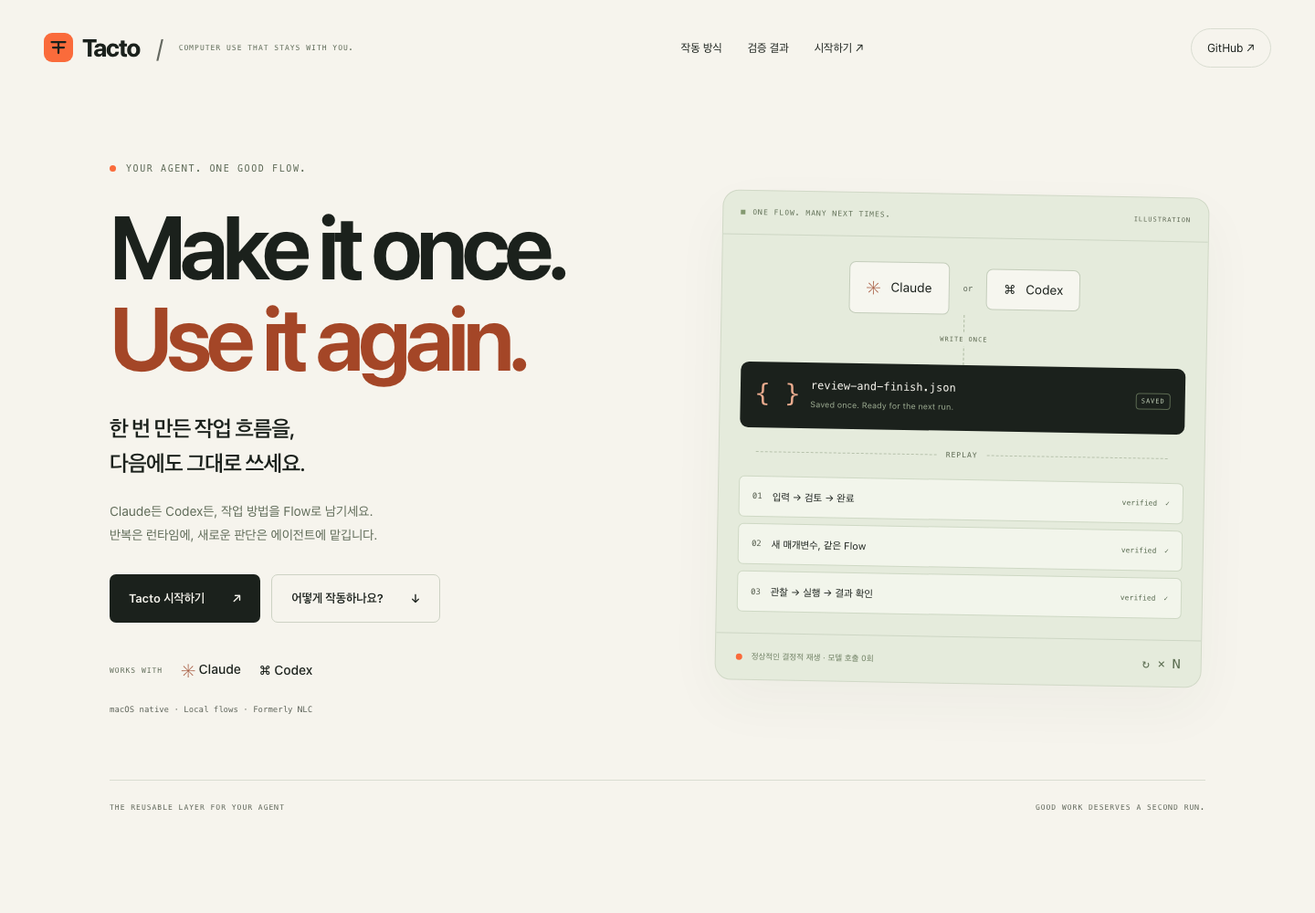
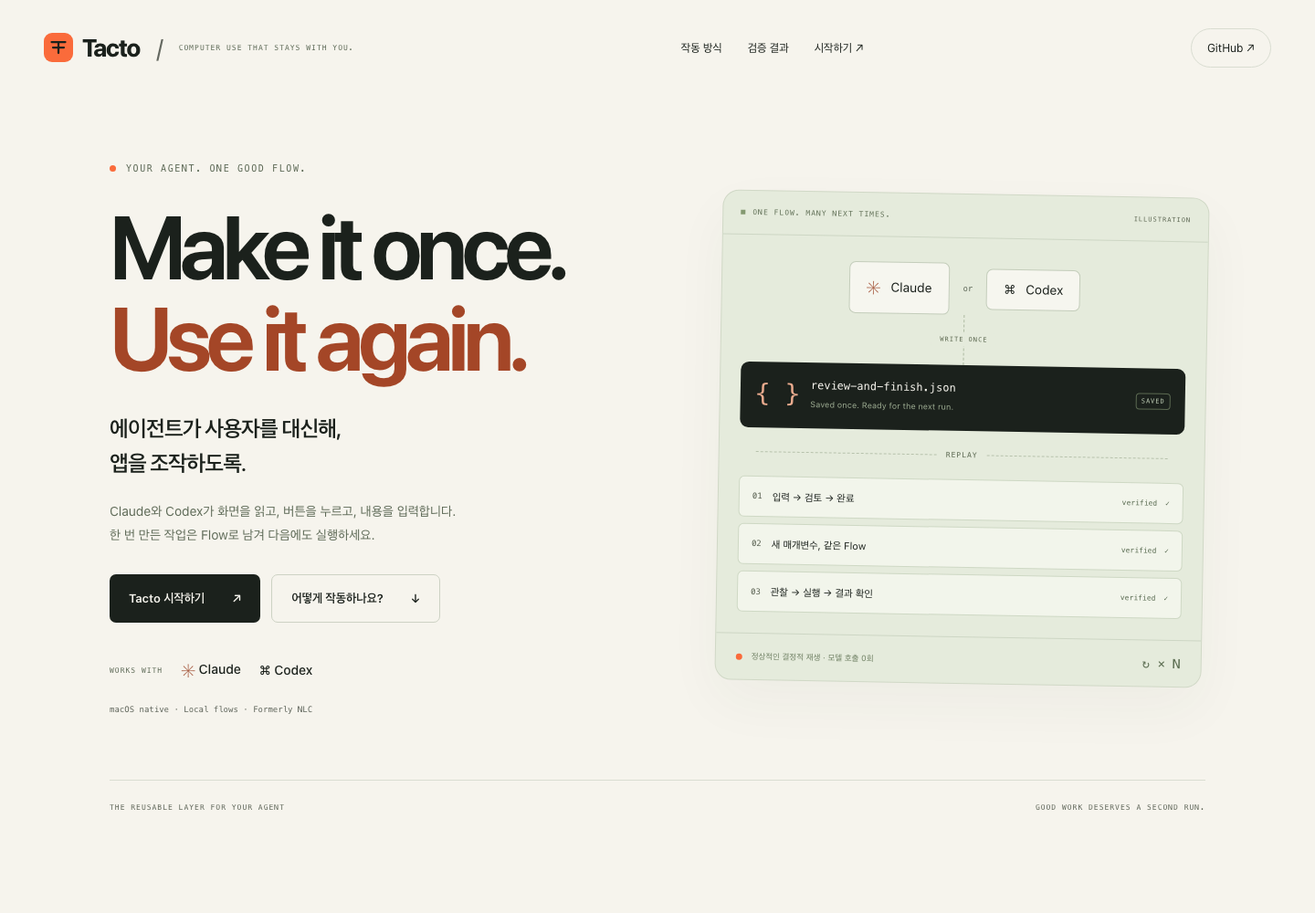
feat: clarify agent app control and add persistent LAN landing server

Changed region(s): [[0.0625, 0.434, 0.25, 0.527], [0.0938, 0.558, 0.3438, 0.589]]

diff --git a/sites/tacto/dist/index.html b/sites/tacto/dist/index.html
@@ -4,30 +4,30 @@
 <meta charset="utf-8"><meta name="viewport" content="width=device-width,initial-scale=1">
 <meta name="referrer" content="no-referrer">
 <meta http-equiv="Content-Security-Policy" content="default-src 'none'; script-src 'self'; style-src 'self'; img-src 'self'; font-src 'self'; connect-src 'none'; base-uri 'none'; form-action 'none'; object-src 'none'">
-<meta name="theme-color" content="#0b100e"><meta name="description" content="Claude와 Codex에서 한 번 작성하고 다시 쓰는 Computer Use. Tacto의 재사용 Flow로 모델 호출을 줄이고, 결과를 검증하세요.">
-<meta property="og:title" content="Tacto — Your agent’s execution layer."><meta property="og:description" content="Your agent. Your apps. One reusable flow."><meta property="og:image" content="assets/tacto-banner.svg">
+<meta name="theme-color" content="#f6f4ed"><meta name="description" content="Claude와 Codex가 사용자를 대신해 앱 화면을 읽고 버튼을 누르고 내용을 입력하도록. Tacto로 컴퓨터 조작(computer use)을 연결하고 작업 흐름을 재사용하세요.">
+<meta property="og:title" content="Tacto — Your agent’s execution layer."><meta property="og:description" content="Let your agent use your apps."><meta property="og:image" content="assets/tacto-banner.svg">
 <title>Tacto — Make it once. Use it again.</title>
 <link rel="icon" href="assets/favicon.svg" type="image/svg+xml"><link rel="stylesheet" href="style.css"><script defer src="app.js"></script>
 </head>
 <body>
 <a class="skip" href="#main">본문으로 건너뛰기</a>
-<header class="header"><a class="brand" href="#" aria-label="Tacto 홈"><svg viewBox="0 0 32 32" aria-hidden="true"><path d="M6 8h20M16 8v16M8 16h16"/></svg>Tacto<span class="brand-divider" aria-hidden="true">/</span><span class="brand-note">COMPUTER USE THAT STAYS WITH YOU.</span></a><nav aria-label="주요 메뉴"><a href="#how">작동 방식</a><a href="#evidence">검증 결과</a><a href="#start">시작하기 <span aria-hidden="true">↗</span></a></nav><a class="nav-github" href="https://github.com/Open330/nlc" target="_blank" rel="noopener noreferrer">GitHub <span aria-hidden="true">↗</span></a></header>
+<header class="header"><a class="brand" href="#" aria-label="Tacto 홈"><svg viewBox="0 0 32 32" aria-hidden="true"><path d="M6 8h20M16 8v16M8 16h16"/></svg>Tacto<span class="brand-divider" aria-hidden="true">/</span><span class="brand-note">COMPUTER USE THAT STAYS WITH YOU.</span></a><nav aria-label="주요 메뉴"><a href="#how">작동 방식</a><a href="#evidence">검증 결과</a><a href="#start">시작하기 <span aria-hidden="true">↗</span></a></nav><a class="nav-github" href="https://github.com/Open330/tacto" target="_blank" rel="noopener noreferrer">GitHub <span aria-hidden="true">↗</span></a></header>
 <main id="main">
 <section class="hero wrap">
-<div class="hero-copy"><div class="eyebrow"><span class="signal"></span> YOUR AGENT. ONE GOOD FLOW.</div><h1>Make it once.<br><span>Use it again.</span></h1><p class="hero-description">한 번 만든 작업 흐름을,<br>다음에도 그대로 쓰세요.</p><p class="hero-support">Claude든 Codex든, 작업 방법을 Flow로 남기세요.<br class="desktop-break"> 반복은 런타임에, 새로운 판단은 에이전트에 맡깁니다.</p><div class="hero-actions"><a class="button primary" href="#start">Tacto 시작하기 <span aria-hidden="true">↗</span></a><a class="button secondary" href="#demo">어떻게 작동하나요? <span aria-hidden="true">↓</span></a></div><div class="compatibility"><span>WORKS WITH</span><b><span class="claude-mark" aria-hidden="true">✳</span> Claude</b><b><span class="codex-mark" aria-hidden="true">⌘</span> Codex</b><span class="compatibility-note">macOS native · Local flows · Formerly NLC</span></div></div>
+<div class="hero-copy"><div class="eyebrow"><span class="signal"></span> YOUR AGENT. ONE GOOD FLOW.</div><h1>Make it once.<br><span>Use it again.</span></h1><p class="hero-description">에이전트가 사용자를 대신해,<br>앱을 조작하도록.</p><p class="hero-support">Claude와 Codex가 화면을 읽고, 버튼을 누르고, 내용을 입력합니다.<br class="desktop-break"> 한 번 만든 작업은 Flow로 남겨 다음에도 실행하세요.</p><div class="hero-actions"><a class="button primary" href="#start">Tacto 시작하기 <span aria-hidden="true">↗</span></a><a class="button secondary" href="#demo">어떻게 작동하나요? <span aria-hidden="true">↓</span></a></div><div class="compatibility"><span>WORKS WITH</span><b><span class="claude-mark" aria-hidden="true">✳</span> Claude</b><b><span class="codex-mark" aria-hidden="true">⌘</span> Codex</b><span class="compatibility-note">macOS native · Local flows · Formerly NLC</span></div></div>
 <div class="hero-visual" aria-label="저장한 Flow의 반복 실행을 설명하는 예시"><div class="visual-top"><span class="tiny-square"></span> ONE FLOW. MANY NEXT TIMES.<span class="live">ILLUSTRATION</span></div><div class="agent-row"><div class="agent-chip"><span class="claude-mark">✳</span> Claude</div><span class="or">or</span><div class="agent-chip"><span>⌘</span> Codex</div></div><div class="connector"><span>WRITE ONCE</span></div><div class="flow-file"><span class="file-icon">{ }</span><div><b>review-and-finish.json</b><span>Saved once. Ready for the next run.</span></div><span class="file-status">SAVED</span></div><div class="replay-line"><span></span><b>REPLAY</b><span></span></div><div class="run-stack"><div><span class="run-index">01</span><span>입력 → 검토 → 완료</span><b>verified <i>✓</i></b></div><div><span class="run-index">02</span><span>새 매개변수, 같은 Flow</span><b>verified <i>✓</i></b></div><div><span class="run-index">03</span><span>관찰 → 실행 → 결과 확인</span><b>verified <i>✓</i></b></div></div><div class="visual-bottom"><span class="signal"></span> 정상적인 결정적 재생 · 모델 호출 0회<span class="visual-counter">↻ × N</span></div></div>
 <div class="hero-footer"><span>THE REUSABLE LAYER FOR YOUR AGENT</span><span>GOOD WORK DESERVES A SECOND RUN.</span></div>
 </section>
-<section class="intro wrap" id="how"><div class="section-label">01 — A BETTER LOOP</div><div class="intro-heading"><h2>모델에게는 판단을.<br>런타임에는 반복을.</h2><p>앱을 쓰는 방법을 Flow로 남깁니다. 다음 작업에서는 입력값을 바꾸고 같은 흐름을 실행하세요. 새 관찰에서 대상을 찾고, 결과가 맞는지 확인하는 일은 런타임이 맡습니다.</p></div><div class="workflow-grid"><article class="workflow muted"><div class="workflow-label">처음 수행하는 작업</div><div class="workflow-steps"><span>에이전트</span><b>→</b><span>관찰·작성</span><b>→</b><span>Flow 저장</span></div><p>목표와 앱의 상태를 보고 실행할 흐름을 작성합니다.</p><span class="workflow-tag">AUTHORING · 모델 사용</span></article><article class="workflow active"><div class="workflow-label">이미 익힌 반복 작업</div><div class="workflow-steps"><span>Flow</span><b>→</b><span>실행·검증</span><b>→</b><span>완료</span></div><p>매개변수만 바꿉니다. 결정적 재생은 모델을 호출하지 않습니다.</p><span class="workflow-tag">REPLAY · 모델 호출 0회</span></article></div><div class="repair-note"><span aria-hidden="true">↳</span><p>개발 버전에서는 지원되는 버튼 변경을 에이전트가 필요한 부분만 수리합니다. <strong>완료 여부가 불확실하면 재전송하지 않고 멈춥니다.</strong></p><a href="#faq">복구 범위 보기 ↗</a></div></section>
+<section class="intro wrap" id="how"><div class="section-label">01 — A BETTER LOOP</div><div class="intro-heading"><h2>앱 조작은 에이전트에게.<br>반복은 Tacto에게.</h2><p>사용자를 대신해 컴퓨터를 조작하는 computer use. Tacto는 그 작업 방법을 Flow로 남깁니다. 다음에는 입력값을 바꾸고 같은 흐름을 실행하세요. 새 관찰에서 대상을 찾고, 결과가 맞는지 확인하는 일은 런타임이 맡습니다.</p></div><div class="workflow-grid"><article class="workflow muted"><div class="workflow-label">처음 수행하는 작업</div><div class="workflow-steps"><span>에이전트</span><b>→</b><span>관찰·작성</span><b>→</b><span>Flow 저장</span></div><p>목표와 앱의 상태를 보고 실행할 흐름을 작성합니다.</p><span class="workflow-tag">AUTHORING · 모델 사용</span></article><article class="workflow active"><div class="workflow-label">이미 익힌 반복 작업</div><div class="workflow-steps"><span>Flow</span><b>→</b><span>실행·검증</span><b>→</b><span>완료</span></div><p>매개변수만 바꿉니다. 결정적 재생은 모델을 호출하지 않습니다.</p><span class="workflow-tag">REPLAY · 모델 호출 0회</span></article></div><div class="repair-note"><span aria-hidden="true">↳</span><p>개발 버전에서는 지원되는 버튼 변경을 에이전트가 필요한 부분만 수리합니다. <strong>완료 여부가 불확실하면 재전송하지 않고 멈춥니다.</strong></p><a href="#faq">복구 범위 보기 ↗</a></div></section>
 <section class="demo-section" id="demo"><div class="wrap demo-layout"><div><div class="section-label">02 — MAKE REPETITION BORING</div><h2>같은 작업.<br>다른 입력.<br><em>하나의 Flow.</em></h2><p>신청 내용을 검토하고 결과를 확인하는 다단계 작업도, 재사용 가능한 실행 단위로 남길 수 있습니다.</p><div class="demo-controls" aria-label="실행 예시 선택"><button class="demo-tab selected" aria-pressed="true" data-demo="replay">정상 재생</button><button class="demo-tab" aria-pressed="false" data-demo="repair">버튼 변경</button><button class="demo-tab" aria-pressed="false" data-demo="stop">결과 불확실</button></div><p class="demo-caption">설명용 인터랙티브 예시입니다. 실제 앱이나 모델을 실행하지 않습니다. batch·자동 수리는 개발 checkout 기준입니다.</p></div><div class="terminal"><div class="terminal-bar"><div class="window-dots"><i></i><i></i><i></i></div><span>tacto / reusable-workflow</span><button class="icon-button" data-copy="demo-command" aria-label="예시 명령 복사">복사</button></div><div class="terminal-body"><div class="command"><span>$</span><code id="demo-command">tacto batch template.json --helper --auto-repair codex &lt; jobs.jsonl</code></div><div id="demo-lines" class="terminal-lines" aria-live="polite"></div><div class="terminal-total"><span id="demo-status">VERIFIED REPLAY</span><b id="demo-total">모델 호출 0회</b></div></div></div></div></section>
 <section class="advantages wrap"><div class="section-label">03 — DESIGNED TO REUSE</div><div class="advantage-row"><span class="advantage-number">01</span><h3>에이전트가 바뀌어도,<br>Flow는 그대로.</h3><p>Claude와 Codex에서 같은 Tacto 스킬과 실행 형식을 사용합니다. 저장한 Flow는 작성한 모델에 종속되지 않습니다.</p><span class="advantage-symbol" aria-hidden="true">↔</span></div><div class="advantage-row"><span class="advantage-number">02</span><h3>토큰은 필요한<br>판단에만.</h3><p>정상적인 결정적 재생에는 모델 호출이 없습니다. 처음 작성하거나 명시적으로 판단·수리를 요청할 때만 모델 비용이 발생합니다.</p><span class="advantage-symbol" aria-hidden="true">∅</span></div><div class="advantage-row"><span class="advantage-number">03</span><h3>클릭 성공보다,<br>작업의 결과.</h3><p>새 관찰로 대상을 다시 찾고 단계의 결과 조건을 검사합니다. 저장·전송처럼 중요한 작업은 해당 경로의 승인·완료 증거를 따릅니다.</p><span class="advantage-symbol" aria-hidden="true">✓</span></div></section>
 <section class="evidence-section" id="evidence"><div class="wrap"><div class="evidence-heading"><div><div class="section-label">04 — MEASURED, NOT JUST PROMISED</div><h2>숫자로 확인한<br>작은 시작.</h2></div><p>요청 모델과 추론 강도, 초기 상태를 맞춘 개발 버전 Tacto·Sky 비교입니다. 작은 표본의 관측 결과이며 모든 작업에서의 우위를 의미하지 않습니다.</p></div><div class="metric-grid"><div><span>LESS TOTAL INPUT</span><b>53.5<small>%</small></b><p>새 대화 3쌍의 전체 입력 감소</p></div><div><span>LESS NON-CACHED INPUT</span><b>56.3<small>%</small></b><p>캐시 읽기 제외 입력 감소</p></div><div><span>ZERO-MODEL REPLAY</span><b>0<small>calls</small></b><p>정상적인 결정적 Flow 재생</p></div></div><details class="methodology"><summary>측정 조건과 결과 전체 보기 <span aria-hidden="true">+</span></summary><div class="methodology-content"><p>2026-10-14 · Codex CLI 0.161.0 · 요청 모델 gpt-6.1-sol · medium · 독립 새 대화 · 소유 AppKit 테스트 앱. 보너스 켜기·끄기·버튼 변경 각 1쌍, 모두 성공했습니다. 최초 작성·실행·최종 응답을 포함하고 테스트 준비 시간은 제외했습니다.</p><div class="table-scroll"><table><caption>Tacto와 Sky의 3회 합계 비교</caption><thead><tr><th scope="col">항목</th><th scope="col">Tacto</th><th scope="col">Sky</th></tr></thead><tbody><tr><th scope="row">성공</th><td>3/3</td><td>3/3</td></tr><tr><th scope="row">평균 시간</th><td>42.10초</td><td>46.17초</td></tr><tr><th scope="row">전체 입력</th><td>201,447</td><td>433,312</td></tr><tr><th scope="row">캐시 읽기 제외 입력</th><td>22,119</td><td>50,592</td></tr><tr><th scope="row">출력</th><td>1,605</td><td>1,604</td></tr></tbody></table></div><p>시간 합계는 Tacto가 8.8% 짧았지만 보너스 끄기에서는 Sky가 더 빨랐습니다. 실제 serving model·서버 캐시·청구비용은 미확인입니다. 이 결과는 10회 재사용 비교가 아닙니다.</p><a href="assets/benchmark-summary.json" download>측정 요약 JSON 다운로드 ↗</a></div></details><div class="complex-proof"><span class="proof-icon" aria-hidden="true">⌁</span><div><strong>11단계 복잡한 Flow도 확인했습니다.</strong><p>정상 작업 13/13 완료 · 기대 중단 5/5 · 한 작업에서 버튼 2개 수리. 소유 테스트 앱에서의 결과이며 여러 실제 업무 앱 전체의 성공률은 아닙니다.</p></div></div></div></section>
-<section class="onboarding wrap" id="start"><div class="section-label">05 — YOUR FIRST REUSABLE FLOW</div><div class="onboarding-heading"><h2>시작은 한 번.<br>다음은 반복.</h2><p>현재 macOS 네이티브 버전은 소스 빌드로 제공합니다. Python 3.11+, uv, Xcode Command Line Tools, 로컬 코드 서명 identity가 필요합니다.</p></div><div class="agent-picker" role="group" aria-label="사용할 에이전트 선택"><button data-agent="Claude" class="selected" aria-pressed="true"><span class="claude-mark">✳</span> Claude</button><button data-agent="Codex" aria-pressed="false"><span>⌘</span> Codex</button><span>실행하는 Tacto와 Flow 형식은 같습니다.</span></div><ol class="onboarding-steps"><li><span class="step-number">01</span><div><h3>런타임과 스킬 설치</h3><p>저장소를 빌드하고 에이전트에 스킬을 연결합니다.</p><div class="install-command"><button class="icon-button" data-copy="install-command">복사</button><pre><code id="install-command">git clone https://github.com/Open330/nlc.git
-cd nlc
+<section class="onboarding wrap" id="start"><div class="section-label">05 — YOUR FIRST REUSABLE FLOW</div><div class="onboarding-heading"><h2>시작은 한 번.<br>다음은 반복.</h2><p>현재 macOS 네이티브 버전은 소스 빌드로 제공합니다. Python 3.11+, uv, Xcode Command Line Tools, 로컬 코드 서명 identity가 필요합니다.</p></div><div class="agent-picker" role="group" aria-label="사용할 에이전트 선택"><button data-agent="Claude" class="selected" aria-pressed="true"><span class="claude-mark">✳</span> Claude</button><button data-agent="Codex" aria-pressed="false"><span>⌘</span> Codex</button><span>실행하는 Tacto와 Flow 형식은 같습니다.</span></div><ol class="onboarding-steps"><li><span class="step-number">01</span><div><h3>런타임과 스킬 설치</h3><p>저장소를 빌드하고 에이전트에 스킬을 연결합니다.</p><div class="install-command"><button class="icon-button" data-copy="install-command">복사</button><pre><code id="install-command">git clone https://github.com/Open330/tacto.git
+cd tacto
 uv sync
 ./build.sh
-./skill/install.sh</code></pre></div><a href="https://github.com/Open330/nlc/blob/main/docs/installation.md" target="_blank" rel="noopener noreferrer">설치 요구 사항과 서명 설정 ↗</a></div></li><li><span class="step-number">02</span><div><h3>macOS 권한 확인</h3><p><code>tacto doctor</code>의 안내에 따라 NLC Helper에 필요한 권한을 허용합니다. 권한은 서명된 helper가 사용합니다. 기존 권한을 유지하기 위해 macOS에는 NLC Helper로 표시됩니다.</p><div class="inline-command"><code id="doctor-command">~/.local/bin/tacto doctor</code><button class="icon-button" data-copy="doctor-command" aria-label="권한 확인 명령 복사">복사</button></div></div></li><li><span class="step-number">03</span><div><h3><span id="agent-label">Claude</span>에서 Tacto 시작하기</h3><p>앱을 준비하고 아래 요청을 에이전트에게 전달하세요. 실제 요청에 맞는 앱·작업으로 바꿔도 됩니다.</p><div class="prompt-card"><p id="agent-prompt">Tacto 스킬로 계산기에서 12 × 34를 계산하고 결과를 확인해줘. 같은 작업을 다시 쓸 수 있도록 매개변수가 있는 Flow로 저장해줘.</p><button class="icon-button" data-copy="agent-prompt">요청 복사 ↗</button></div><p class="small-note">설치 후 에이전트가 스킬을 찾지 못하면 세션을 다시 열고 <code>./skill/install.sh --check</code>로 연결을 확인하세요.</p></div></li></ol></section>
+./skill/install.sh</code></pre></div><a href="https://github.com/Open330/tacto/blob/main/docs/installation.md" target="_blank" rel="noopener noreferrer">설치 요구 사항과 서명 설정 ↗</a></div></li><li><span class="step-number">02</span><div><h3>macOS 권한 확인</h3><p><code>tacto doctor</code>의 안내에 따라 NLC Helper에 필요한 권한을 허용합니다. 권한은 서명된 helper가 사용합니다. 기존 권한을 유지하기 위해 macOS에는 NLC Helper로 표시됩니다.</p><div class="inline-command"><code id="doctor-command">~/.local/bin/tacto doctor</code><button class="icon-button" data-copy="doctor-command" aria-label="권한 확인 명령 복사">복사</button></div></div></li><li><span class="step-number">03</span><div><h3><span id="agent-label">Claude</span>에서 Tacto 시작하기</h3><p>앱을 준비하고 아래 요청을 에이전트에게 전달하세요. 실제 요청에 맞는 앱·작업으로 바꿔도 됩니다.</p><div class="prompt-card"><p id="agent-prompt">Tacto 스킬로 계산기에서 12 × 34를 계산하고 결과를 확인해줘. 같은 작업을 다시 쓸 수 있도록 매개변수가 있는 Flow로 저장해줘.</p><button class="icon-button" data-copy="agent-prompt">요청 복사 ↗</button></div><p class="small-note">설치 후 에이전트가 스킬을 찾지 못하면 세션을 다시 열고 <code>./skill/install.sh --check</code>로 연결을 확인하세요.</p></div></li></ol></section>
 <section class="faq wrap" id="faq"><div><div class="section-label">06 — GOOD TO KNOW</div><h2>시작 전에<br>궁금한 것.</h2></div><div class="faq-items"><details><summary>Claude와 Codex 모두 사용할 수 있나요?<span>+</span></summary><p>네. 설치 스크립트는 두 에이전트의 스킬과 Tacto 명령을 연결합니다. 저장 Flow는 모델에 종속되지 않습니다. 개발 버전의 자동 선택자 수리 CLI 옵션은 <code>--auto-repair codex</code>이며, 자동 수리 provider는 Codex입니다.</p></details><details><summary>정말 모델 비용이 없나요?<span>+</span></summary><p>정상적인 결정적 재생은 모델을 호출하지 않습니다. 최초 작성, 계획에 포함된 판단, 자동 수리를 활성화한 뒤의 지원되는 실패에는 모델 사용량이 발생합니다. 앱·실행 환경의 비용까지 0이라는 의미는 아닙니다.</p></details><details><summary>화면이 바뀌면 어떻게 되나요?<span>+</span></summary><p>대상을 새 관찰에서 다시 찾습니다. 지원되는 정적 선택자 실패는 짧은 후보 패킷으로 수리하고 확인된 checkpoint 뒤부터 재개할 수 있습니다. 값·상태·대상이 바뀌었거나 결과가 불확실하면 멈춥니다. 이전 capture가 필요한 자동 재개, 모든 UI 변화와 crash 복구를 지원하지는 않습니다.</p></details><details><summary>설치는 다운로드 한 번으로 끝나나요?<span>+</span></summary><p>아직 아닙니다. 현재 네이티브 버전은 소스 빌드·로컬 코드 서명·macOS 권한 설정이 필요합니다. Python wheel만 설치해서 서명된 macOS helper를 사용할 수는 없습니다. 현재 상태는 working prototype입니다.</p></details></div></section>
-<section class="final-cta wrap"><div class="section-label">TEACH ONCE. KEEP GOING.</div><h2>잘해낸 작업을,<br><span>다시 잘해내도록.</span></h2><a class="button primary" href="#start">Tacto 시작하기 <span aria-hidden="true">↗</span></a><a class="text-link" href="https://github.com/Open330/nlc" target="_blank" rel="noopener noreferrer">소스 살펴보기 ↗</a></section>
-</main><footer class="wrap footer"><a class="brand" href="#">Tacto<span class="brand-divider" aria-hidden="true">/</span><span class="brand-note">TEACH ONCE. REPLAY AT RUNTIME.</span></a><div><span>Developer preview · macOS native · Formerly NLC</span><a href="https://github.com/Open330/nlc" target="_blank" rel="noopener noreferrer">GitHub ↗</a></div></footer><div class="toast" role="status" aria-live="polite"></div>
+<section class="final-cta wrap"><div class="section-label">TEACH ONCE. KEEP GOING.</div><h2>잘해낸 작업을,<br><span>다시 잘해내도록.</span></h2><a class="button primary" href="#start">Tacto 시작하기 <span aria-hidden="true">↗</span></a><a class="text-link" href="https://github.com/Open330/tacto" target="_blank" rel="noopener noreferrer">소스 살펴보기 ↗</a></section>
+</main><footer class="wrap footer"><a class="brand" href="#">Tacto<span class="brand-divider" aria-hidden="true">/</span><span class="brand-note">TEACH ONCE. REPLAY AT RUNTIME.</span></a><div><span>Developer preview · macOS native · Formerly NLC</span><a href="https://github.com/Open330/tacto" target="_blank" rel="noopener noreferrer">GitHub ↗</a></div></footer><div class="toast" role="status" aria-live="polite"></div>
 </body></html>

diff --git a/tests/test_tacto_static_server.py b/tests/test_tacto_static_server.py
@@ -1,0 +1,74 @@
+"""The LAN preview serves public site assets, never the checkout or symlinks."""
+import importlib.util
+from pathlib import Path
+import tempfile
+import threading
+import unittest
+from urllib.error import HTTPError
+from urllib.request import Request, urlopen
+
+ROOT = Path(__file__).resolve().parents[1]
+spec = importlib.util.spec_from_file_location('tacto_static', ROOT/'sites/tacto/serve.py')
+site = importlib.util.module_from_spec(spec)
+spec.loader.exec_module(site)
+
+
+class StaticServerTests(unittest.TestCase):
+    def setUp(self):
+        directory = tempfile.TemporaryDirectory()
+        self.addCleanup(directory.cleanup)
+        self.root = Path(directory.name)
+        self.dist = self.root/'dist'; self.dist.mkdir()
+        (self.dist/'index.html').write_text('<h1>Tacto</h1>')
+        (self.dist/'assets').mkdir()
+        (self.dist/'assets/app.js').write_text('console.log("Tacto")')
+        (self.root/'private.txt').write_text('private outside site')
+        old = site.DIRECTORY; site.DIRECTORY = self.dist.resolve()
+        self.addCleanup(setattr, site, 'DIRECTORY', old)
+        class Quiet(site.StaticHandler):
+            def log_message(self, *args):
+                pass
+        self.server = site.ThreadingHTTPServer(('127.0.0.1', 0), Quiet)
+        self.thread = threading.Thread(target=self.server.serve_forever, daemon=True)
+        self.thread.start()
+        self.addCleanup(self.stop)
+        self.url = 'http://127.0.0.1:'+str(self.server.server_port)
+
+    def stop(self):
+        self.server.shutdown(); self.server.server_close(); self.thread.join()
+
+    def test_landing_and_assets_are_served_with_browser_protection(self):
+        with urlopen(self.url) as response:
+            self.assertEqual(b'<h1>Tacto</h1>', response.read())
+            self.assertEqual('nosniff', response.headers['X-Content-Type-Options'])
+            self.assertEqual('DENY', response.headers['X-Frame-Options'])
+            self.assertIn("connect-src 'none'", response.headers['Content-Security-Policy'])
+            self.assertEqual('no-referrer', response.headers['Referrer-Policy'])
+        with urlopen(self.url+'/assets/app.js') as response:
+            self.assertIn(b'Tacto', response.read())
+
+    def test_source_and_parent_paths_cannot_be_downloaded(self):
+        for path in ['/serve.py','/.git/config','/%2e%2e/private.txt','/../private.txt']:
+            with self.subTest(path=path), self.assertRaises(HTTPError) as error:
+                urlopen(self.url+path)
+            self.assertEqual(404, error.exception.code)
+
+    def test_asset_directory_has_no_listing(self):
+        with self.assertRaises(HTTPError) as error:
+            urlopen(self.url+'/assets/')
+        self.assertEqual(404,error.exception.code)
+
+    def test_symlink_targets_inside_or_outside_site_are_not_served(self):
+        for name,target in [('outside.txt',self.root/'private.txt'),('inside.html',self.dist/'index.html')]:
+            (self.dist/name).symlink_to(target)
+            with self.subTest(name=name), self.assertRaises(HTTPError) as error:
+                urlopen(self.url+'/'+name)
+            self.assertEqual(404,error.exception.code)
+
+    def test_head_works_and_post_has_no_action(self):
+        with urlopen(Request(self.url,method='HEAD')) as response:
+            self.assertEqual(200,response.status)
+            self.assertEqual(b'',response.read())
+        with self.assertRaises(HTTPError) as error:
+            urlopen(Request(self.url,data=b'no action',method='POST'))
+        self.assertEqual(501,error.exception.code)

diff --git a/sites/tacto/serve.py b/sites/tacto/serve.py
@@ -1,0 +1,70 @@
+#!/usr/bin/env python3
+"""Serve only the Tacto static landing page on a chosen local interface."""
+import argparse
+from http.server import SimpleHTTPRequestHandler, ThreadingHTTPServer
+from pathlib import Path
+from urllib.parse import unquote, urlsplit
+
+DIRECTORY = (Path(__file__).resolve().parent / 'dist').resolve()
+CSP = ("default-src 'none'; script-src 'self'; style-src 'self'; img-src 'self'; "
+       "font-src 'self'; connect-src 'none'; base-uri 'none'; form-action 'none'; "
+       "object-src 'none'; frame-ancestors 'none'")
+
+
+class StaticHandler(SimpleHTTPRequestHandler):
+    server_version = 'TactoStatic'
+    sys_version = ''
+
+    def __init__(self, *args, **kwargs):
+        super().__init__(*args, directory=str(DIRECTORY), **kwargs)
+
+    def translate_path(self, path):
+        invalid = str(DIRECTORY / '__not_found__')
+        parts = Path(unquote(urlsplit(path).path)).parts
+        if any(part.startswith('.') for part in parts if part != '/'):
+            return invalid
+        target = Path(super().translate_path(path))
+        try:
+            target.relative_to(DIRECTORY)
+            if not target.resolve().is_relative_to(DIRECTORY):
+                return invalid
+            current = target
+            while current != DIRECTORY:
+                if current.is_symlink():
+                    return invalid
+                current = current.parent
+        except (ValueError, OSError, RuntimeError):
+            return invalid
+        return str(target)
+
+    def list_directory(self, path):
+        self.send_error(404, 'Not found')
+        return None
+
+    def end_headers(self):
+        self.send_header('Content-Security-Policy', CSP)
+        self.send_header('Referrer-Policy', 'no-referrer')
+        self.send_header('X-Content-Type-Options', 'nosniff')
+        self.send_header('X-Frame-Options', 'DENY')
+        self.send_header('Permissions-Policy', 'camera=(), microphone=(), geolocation=()')
+        self.send_header('Cache-Control', 'no-cache')
+        super().end_headers()
+
+
+def main():
+    parser = argparse.ArgumentParser(description=__doc__)
+    parser.add_argument('--host', default='127.0.0.1', help='Local interface address')
+    parser.add_argument('--port', type=int, default=8787)
+    args = parser.parse_args()
+    if not 1 <= args.port <= 65535:
+        parser.error('port must be 1..65535')
+    with ThreadingHTTPServer((args.host, args.port), StaticHandler) as server:
+        print('Tacto landing: http://{}:{}'.format(args.host, args.port), flush=True)
+        try:
+            server.serve_forever()
+        except KeyboardInterrupt:
+            pass
+
+
+if __name__ == '__main__':
+    main()

diff --git a/sites/tacto/README.md b/sites/tacto/README.md
@@ -10,11 +10,22 @@ Claude·Codex가 만든 computer-use Flow를 재사용하는 Tacto의 온보딩 
 저장소 루트에서:
 
 ```sh
-python3 -m http.server 8787 --bind 127.0.0.1 --directory sites/tacto/dist
+python3 sites/tacto/serve.py
 ```
 
 브라우저에서 http://127.0.0.1:8787 을 엽니다. 종료는 Ctrl+C입니다.
-빌드 단계나 npm 의존성이 없습니다.
+빌드 단계나 npm 의존성이 없습니다. Python 3.9 이상이 필요합니다.
+
+다른 기기에서 보려면 서버를 실행하는 컴퓨터의 LAN 주소를 지정합니다.
+
+```sh
+python3 sites/tacto/serve.py --host <LAN-IP> --port 8787
+```
+
+같은 네트워크에서 `http://<LAN-IP>:8787`로 접속합니다.
+서버는 `dist/`의 정적 파일만 제공하며 폴더 목록·숨김 경로·심볼릭 링크는 제공하지 않습니다.
+CSP·referrer·프레임·MIME 보호 헤더를 함께 보냅니다.
+이 명령을 직접 실행한 경우 Ctrl+C로 종료합니다.
 
 ## 파일
 

diff --git a/docs/tacto-branding.md b/docs/tacto-branding.md
@@ -21,8 +21,8 @@ Claude·Codex의 tacto 스킬을 설치합니다. 다른 프로그램·스킬은
 소유를 확인한 예전 NLC 스킬은 skills 폴더 밖 `.tacto-skill-backup.*`에 보관해
 중복 발견을 피합니다. `--check`는 읽기 전용입니다.
 
-기존 GitHub URL은 Open330/nlc로 유지합니다. 제품 이름 변경과 저장소 공개·이전,
-라이선스 변경은 별도입니다. 과거 측정의 nlc 라벨과 수치는 원본대로 보존합니다.
+GitHub 저장소 이름도 `Open330/tacto`로 변경했습니다. clone·문서 링크와
+Git remote를 새 주소로 갱신했습니다. 저장소 공개와 라이선스 변경은 별도입니다. 과거 측정의 nlc 라벨과 수치는 원본대로 보존합니다.
 자동 수리·batch 등 아직 미배포인 개발 버전 기능은 해당 안내에 표시합니다.
 
 Tacto라는 기존 제품과 Python 패키지가 있습니다. 이 변경은 상표·도메인·패키지
